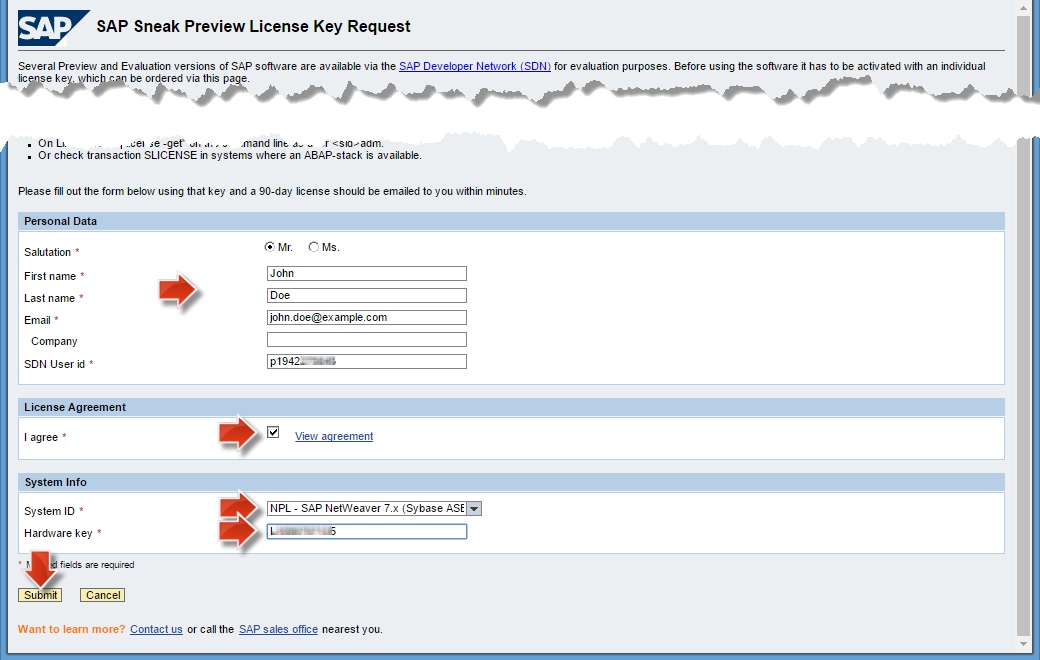
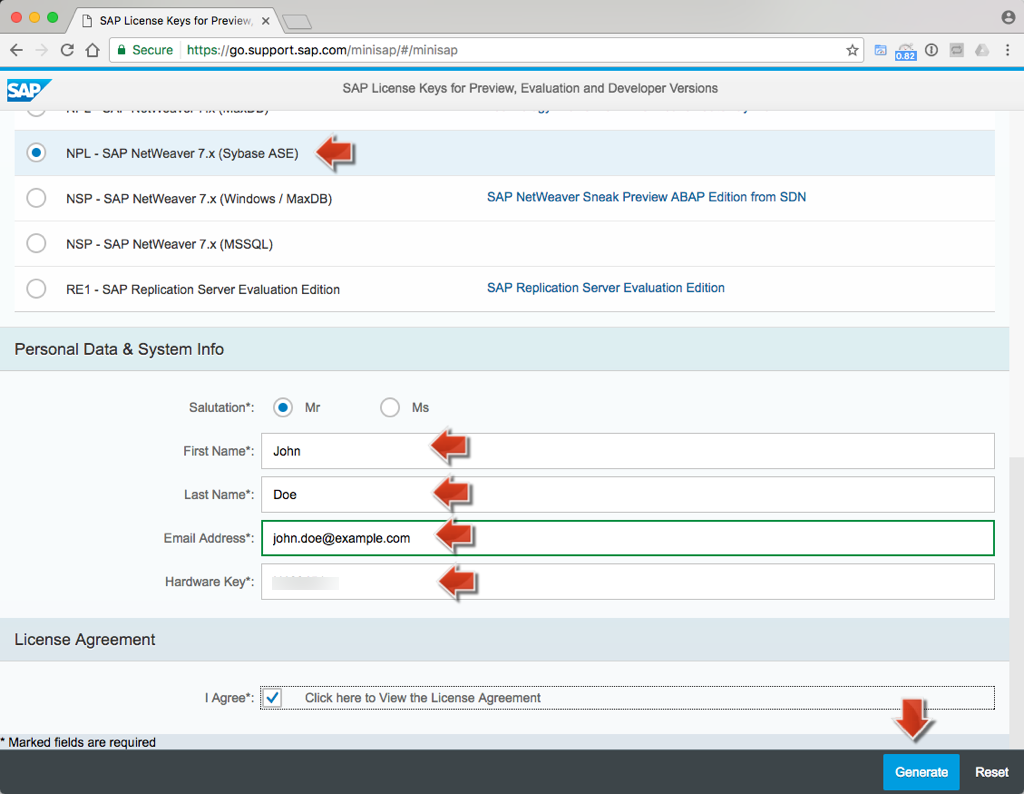
[Week 1] Updated minisap license steps and screenshots

diff --git a/week-1/unit-6/README.md b/week-1/unit-6/README.md
@@ -845,12 +845,12 @@ To work with the installed local _SAP NetWeaver AS ABAP_ system you have to requ
 
     <img src="./images/w1-u6-s6/pic23--license.png" alt="" width="640px" />
 
-5.  Open the [SAP Sneak Preview License Key Request](https://websmp130.sap-ag.de/sap/bc/bsp/spn/minisap/minisap.htm) page.
-6.  Fill in your **HCP trial User ID** as _SCN User id_ and fill in the other requested information.
-7.  Read and agree to the license terms and conditions.
-8.  Choose System ID **NPL - SAP NetWeaver 7.x (Sybase ASE)**.
-9.  Enter the **Hardware key** value which you copied from _SLICENSE_ transaction before.
-10. Click **Submit**.
+5.  Open the [SAP Sneak Preview License Key Request](http://www.sap.com/minisap) page.
+6.  Choose **NPL - SAP NetWeaver 7.x (Sybase ASE)** from the list under **Available SAP Systems for Windows & Linux**.
+7.  Enter your Salutation, trial user first name, last name and e-mail address in the requested fields.
+8.  Enter the **Hardware key** value which you copied from _SLICENSE_ transaction before.
+9.  Read and agree the license agreement by checking the checkbox.
+10. Click **Generate**.
 
     <img src="./images/w1-u6-s6/pic24--license.png" alt="" width="640px" />
 
